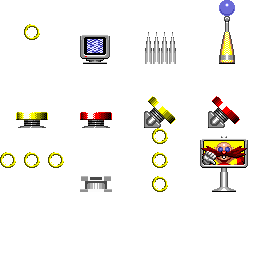
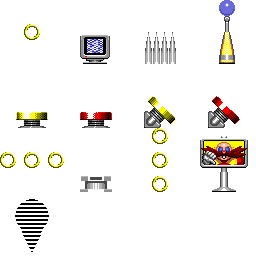
Add Player spawn point object

Changed region(s): [[0.0625, 0.7812, 0.1875, 0.9688]]

diff --git a/assets/levels/COMMON/objects_common.tsx b/assets/levels/COMMON/objects_common.tsx
@@ -48,4 +48,5 @@
  </tile>
  <tile id="10" type="ring_3v"/>
  <tile id="11" type="goal_sign"/>
+ <tile id="12" type="startpos"/>
 </tileset>

diff --git a/src/object_state.c b/src/object_state.c
@@ -13,6 +13,7 @@
 
 extern ArenaAllocator _level_arena;
 extern uint8_t        paused;
+extern Player         player;
 extern Camera         camera;
 
 void
@@ -124,6 +125,11 @@ load_object_placement(const char *filename, void *lvl_data)
                 _emplace_object(data, cx, cy, 0, OBJ_RING, 0, vx, vy, NULL);
                 _emplace_object(data, cx, cy, 0, OBJ_RING, 0, vx + 24, vy, NULL);
                 created_objects += 3;
+                break;
+            case OBJ_DUMMY_STARTPOS:
+                // Initialize player at position
+                player.startpos = (VECTOR){ .vx = vx << 12, .vy = (vy - 8) << 12, .vz = 0 };
+                player.pos = player.startpos;
                 break;
             default: break;
             }

diff --git a/src/screen_level.c b/src/screen_level.c
@@ -169,7 +169,7 @@ screen_level_update(void *d)
     /* --------- */
 
     if(pad_pressed(PAD_SELECT)) {
-        player.pos = (VECTOR){ 250 << 12, CENTERY << 12, 0 };
+        player.pos = player.startpos;
         player.grnd = 0;
         player.anim_dir = 1;
         player.vel.vx = player.vel.vy = player.vel.vz = 0;
@@ -316,7 +316,8 @@ level_load_player()
     }
 
     load_player(&player, "\\SPRITES\\SONIC.CHARA;1", &tim);
-    player.pos = (VECTOR){ 250 << 12, CENTERY << 12, 0 };
+    player.startpos = (VECTOR){ 250 << 12, CENTERY << 12, 0 };
+    player.pos = player.startpos;
 }
 
 static void

diff --git a/tools/cookobj/datatypes.py b/tools/cookobj/datatypes.py
@@ -11,12 +11,14 @@ c_int = c_int.__ctype_be__
 class DummyObjectId(Enum):
     RING_3H = -1
     RING_3V = -2
+    STARTPOS = -3
 
     @staticmethod
     def get(name):
         switch = {
             "ring_3h": DummyObjectId.RING_3H,
             "ring_3v": DummyObjectId.RING_3V,
+            "startpos": DummyObjectId.STARTPOS,
         }
         result = switch.get(name.lower())
         assert result is not None, f"Unknown dummy object {name}"

diff --git a/include/player.h b/include/player.h
@@ -75,6 +75,8 @@ typedef struct {
     CollisionEvent ev_right;
     CollisionEvent ev_ceil1;
     CollisionEvent ev_ceil2;
+
+    VECTOR startpos;
 } Player;
 
 void load_player(Player *player, const char *chara_filename, TIM_IMAGE  *sprites);

diff --git a/include/object.h b/include/object.h
@@ -9,6 +9,7 @@
 
 typedef enum {
     // Dummy objects
+    OBJ_DUMMY_STARTPOS         = -3,
     OBJ_DUMMY_RINGS_3V         = -2,
     OBJ_DUMMY_RINGS_3H         = -1,
 
